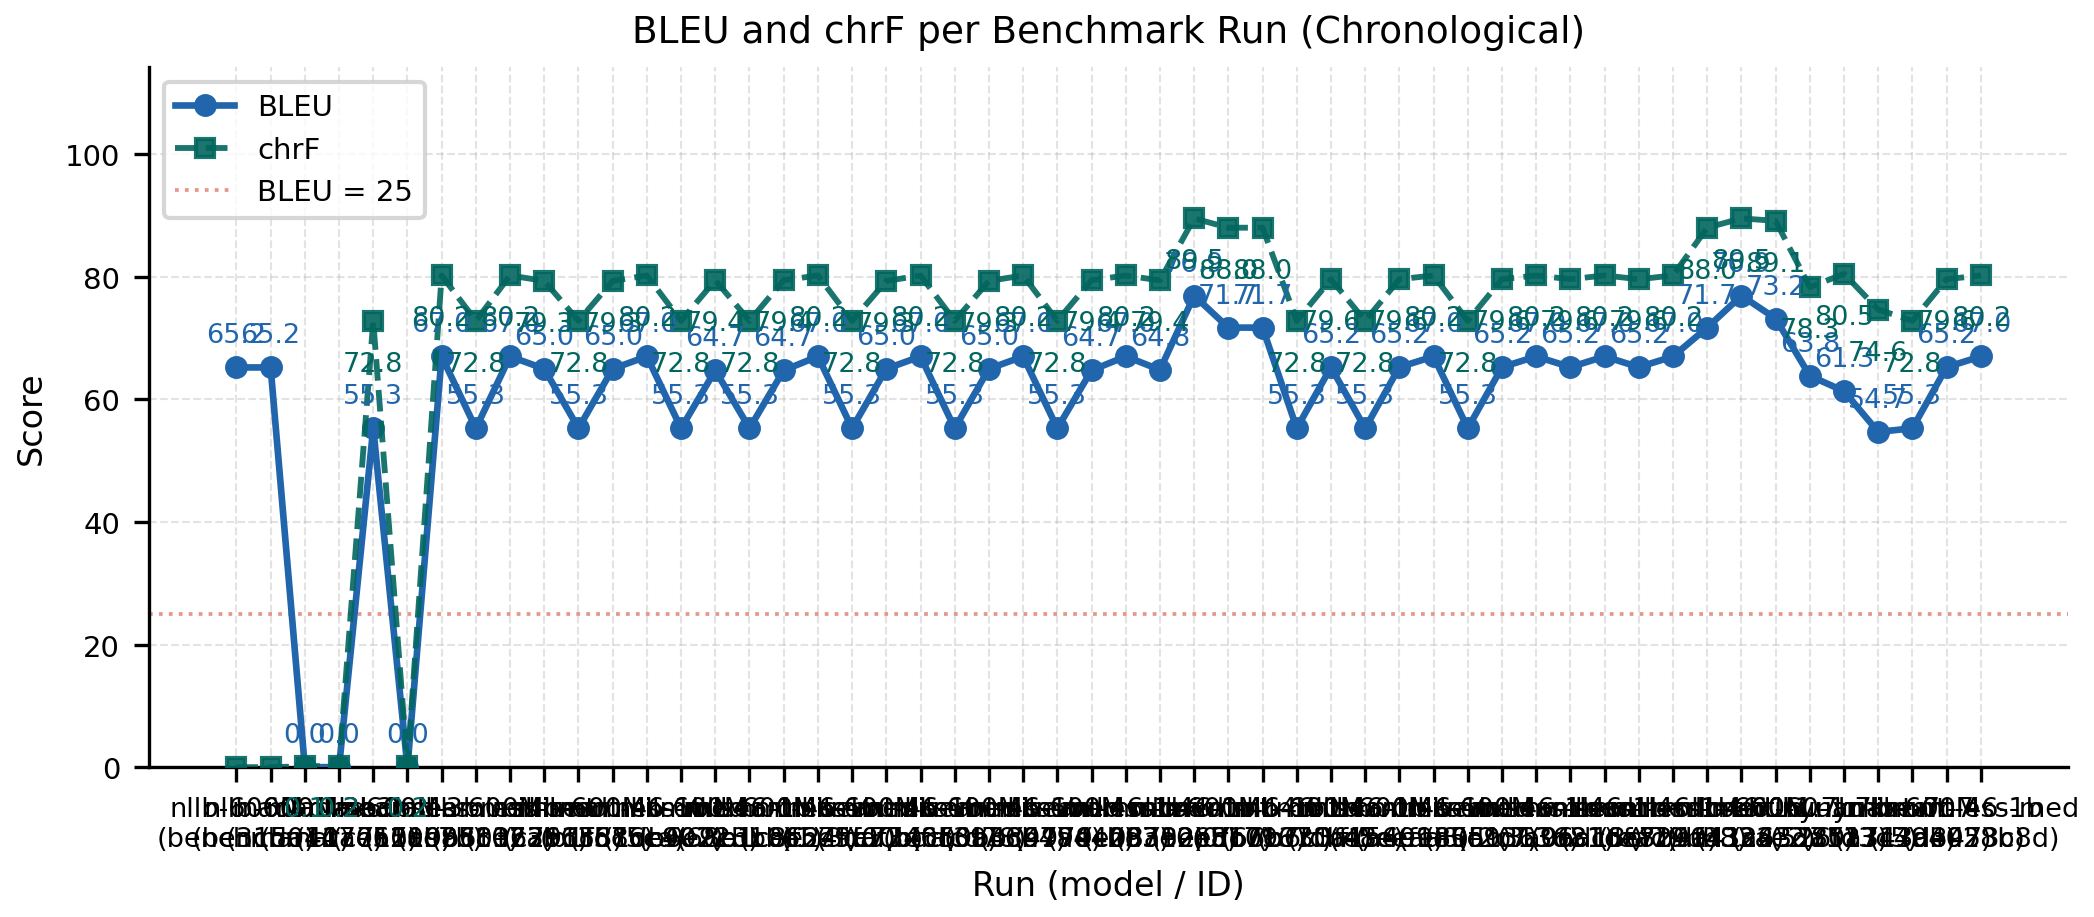
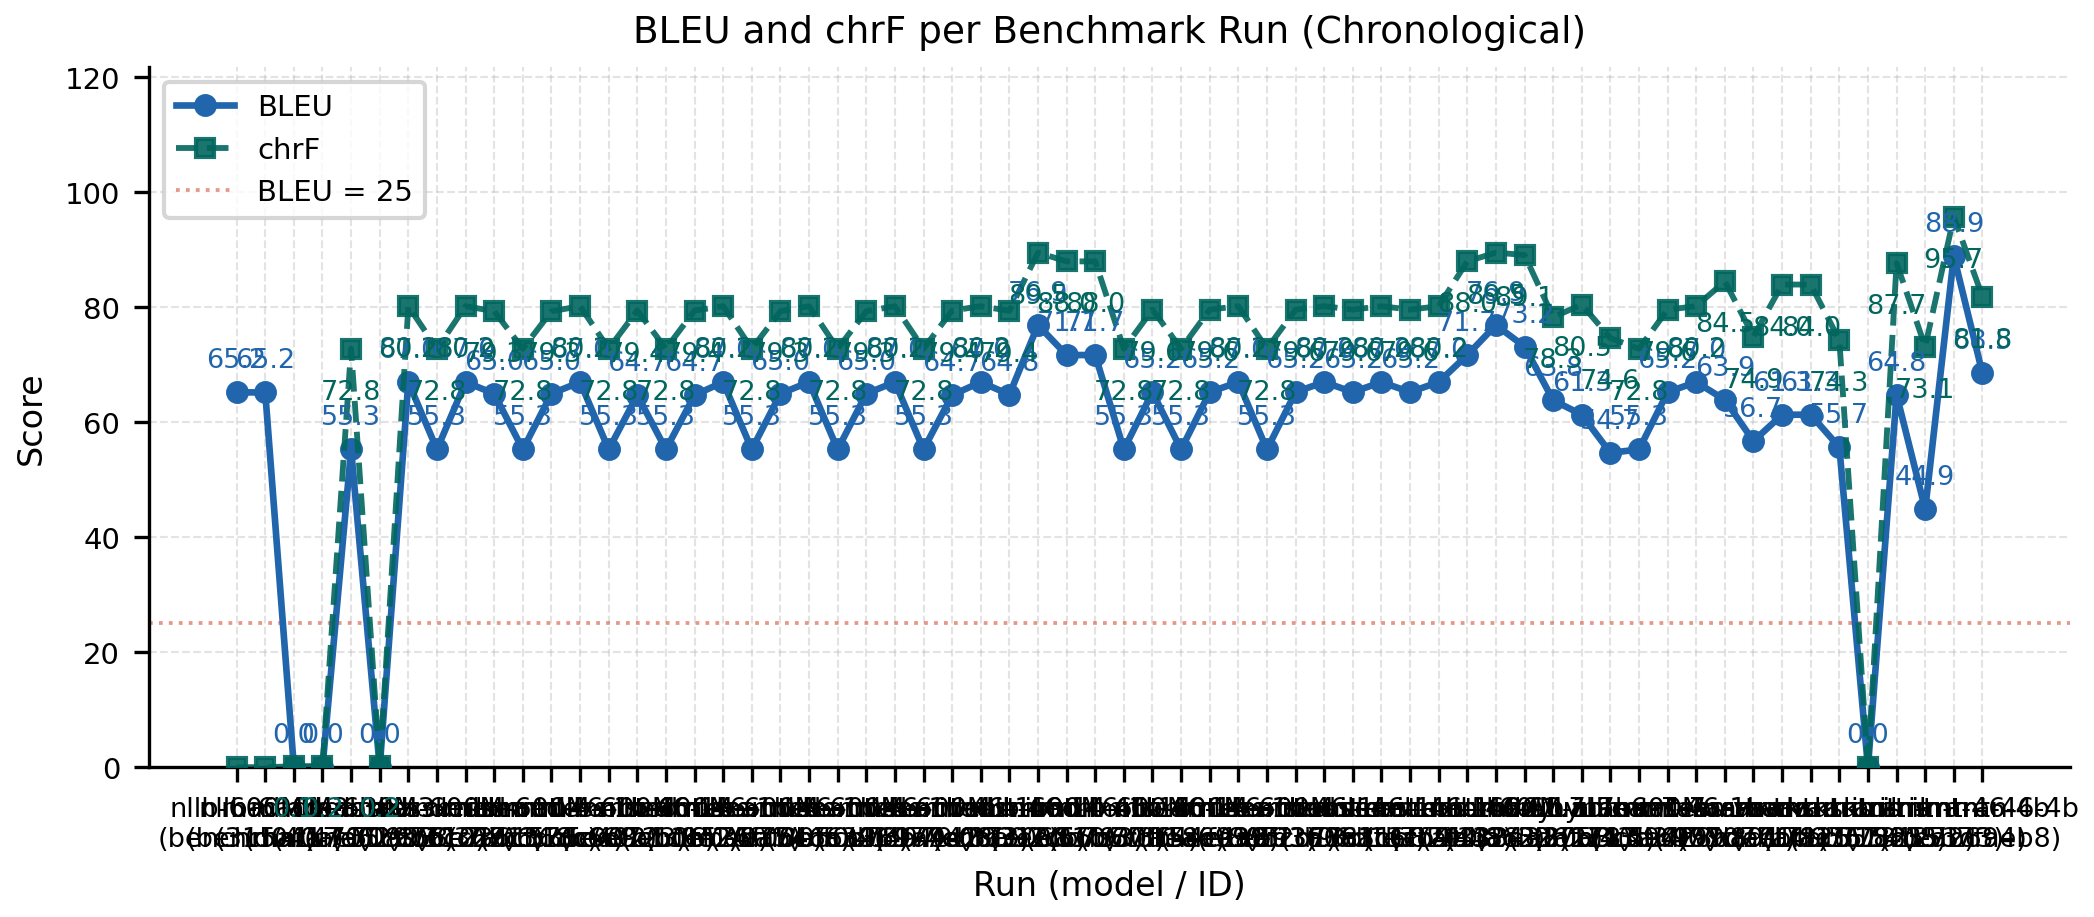
fix(figures): restrict combined-results to deployed models; refresh DB-driven figures
Rejected candidates (checkpoints deleted) now appear only in the
deployed-vs-rejected model-selection panel, not as 'Ours' bars; with
9 models the panel-b labels collided. Also refreshes bleu_over_runs,
radar_latest, resource_usage from the 2026-07-09/10 runs.db rows.

diff --git a/scripts/gen_paper_figures.py b/scripts/gen_paper_figures.py
@@ -651,13 +651,19 @@ def main() -> None:
 
     print(f"\nGenerating paper figures → {FIGURES_DIR}/\n")
 
-    # Build measured dict from DB (most recent run per model with BLEU > 5)
+    # Build measured dict from DB (most recent run per model with BLEU > 5).
+    # Only deployed models: rejected candidates (checkpoints deleted) live in
+    # fig_optimization_speedup's deployed-vs-rejected panel, not here.
+    deployed = {"nllb-600M", "nllb-600m", "milmmt-46-1b",
+                "seamless-medium", "seamless", "milmmt-46-4b"}
     measured: dict[str, dict] = {}
     seen: set[str] = set()
     for r in runs:
         if r.get("run_type") != "benchmark":
             continue
         model = r.get("model_name", "")
+        if model not in deployed:
+            continue
         if model in seen:
             continue
         bleu = r.get("bleu_score")
